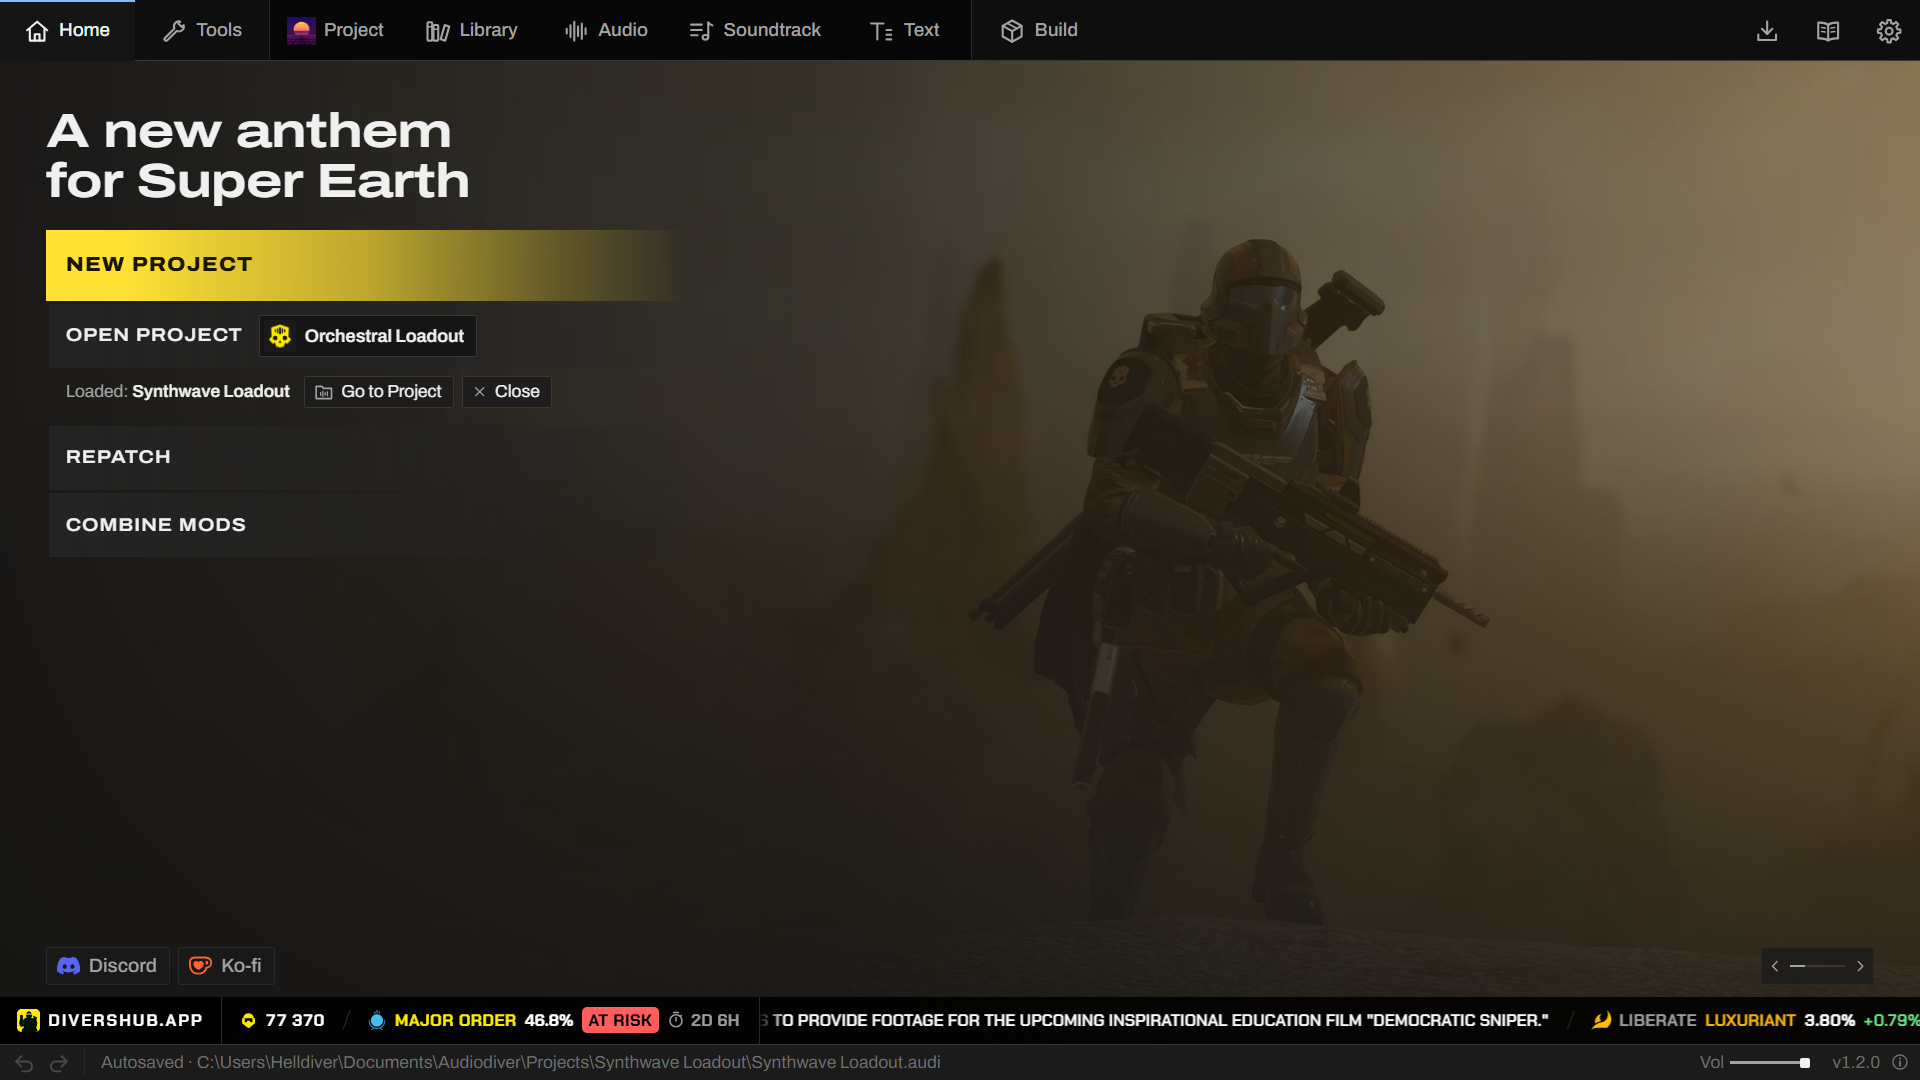
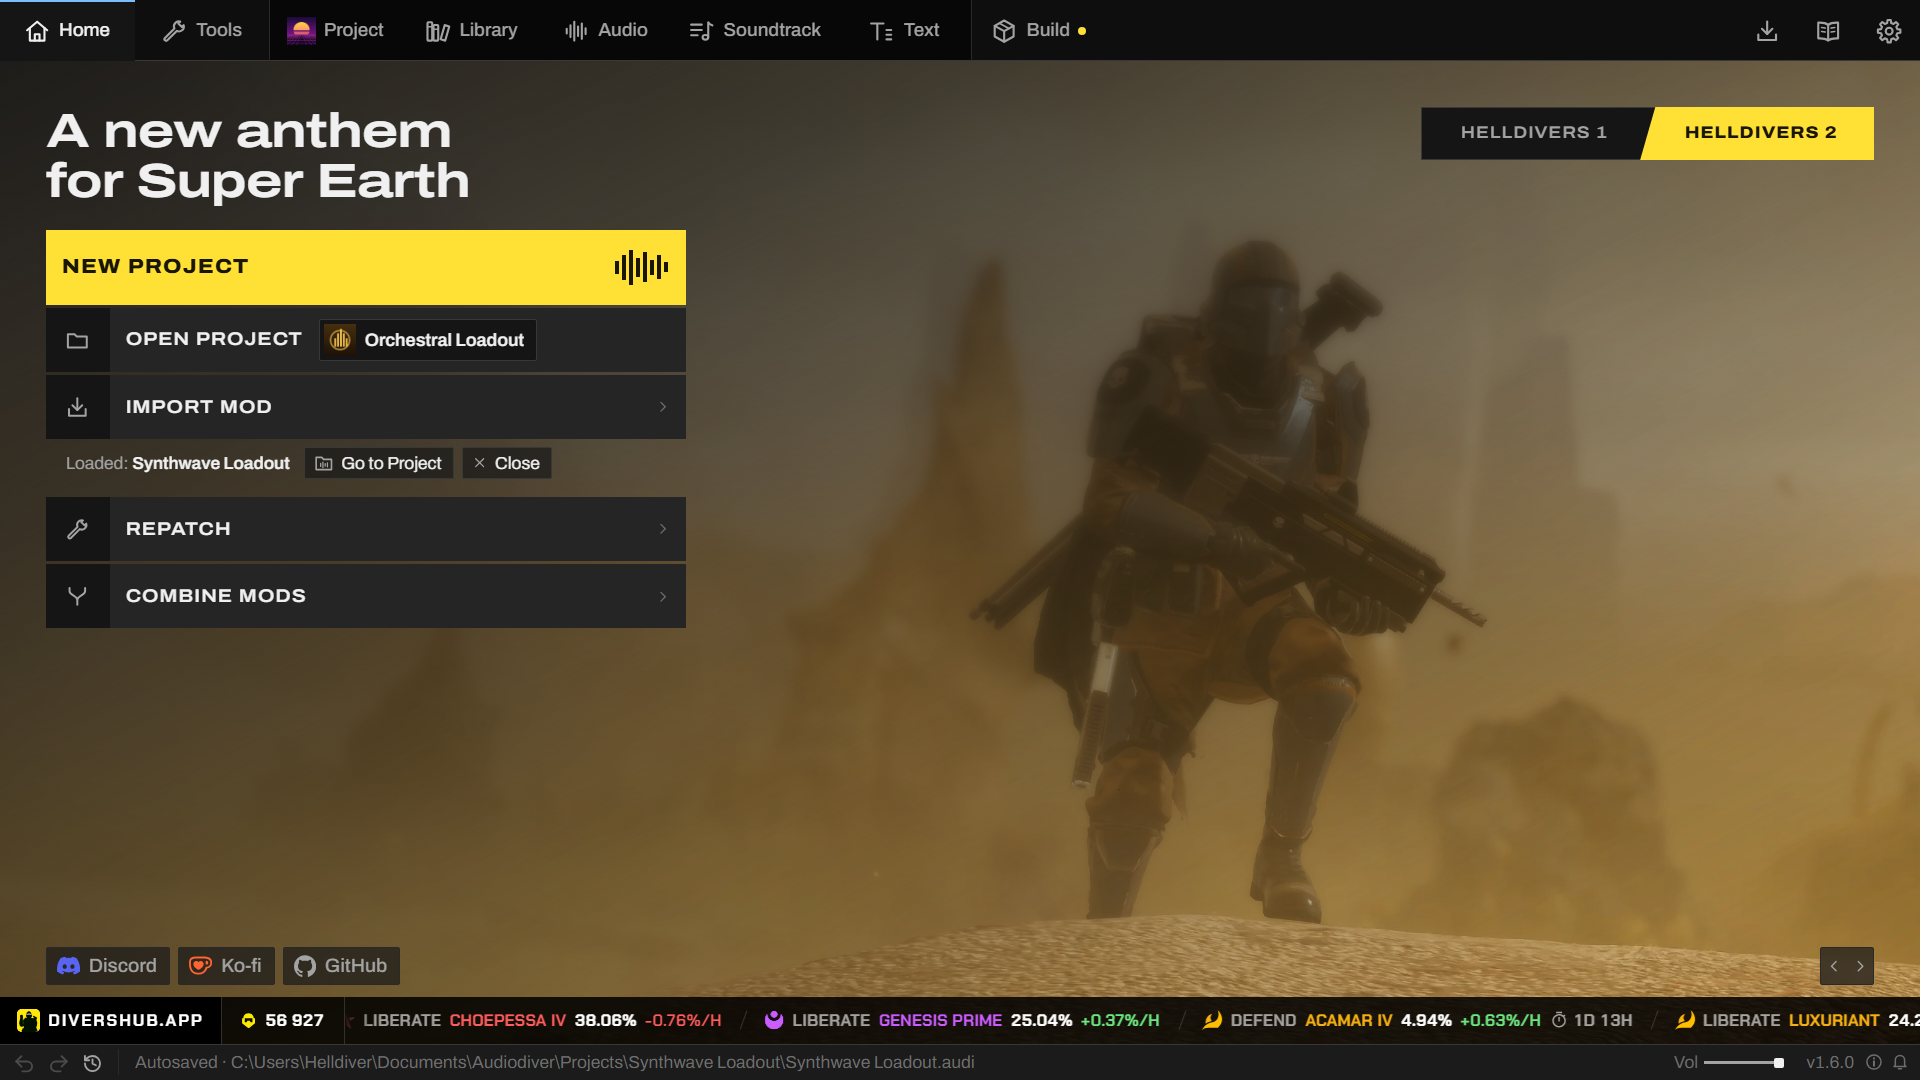
README: new screenshots for 1.6.0, and Home in Helldivers 1 mode

diff --git a/README.md b/README.md
@@ -26,7 +26,11 @@
 <br>
 
 <p align="center">
-  <img src="assets/readme/home.png" alt="Audiodiver's Home tab over a screenshot of a Helldiver kneeling in a desert sandstorm: New Project, Open Project and Import Mod, the loaded project with Go to Project and Close, then Repatch and Combine Mods, with Discord and Ko-fi in the corner" width="100%">
+  <img src="assets/readme/home.png" alt="Audiodiver's Home tab for Helldivers 2 over a screenshot of a Helldiver kneeling in a desert sandstorm: New Project, Open Project and Import Mod, the loaded project with Go to Project and Close, then Repatch and Combine Mods, the switch between Helldivers 1 and Helldivers 2 in the top right, and Discord, Ko-fi and GitHub in the corner" width="100%">
+</p>
+
+<p align="center">
+  <img src="assets/readme/home-hd1.png" alt="The same Home tab switched to Helldivers 1, over artwork of Helldivers fighting bugs: New Project and Open Project, the loaded Helldivers 1 project, and fewer tabs: Project, Library, Audio and Build" width="100%">
 </p>
 
 <p align="center">
@@ -52,7 +56,7 @@ The mod's name, description, icon and ID, with a preview as a mod manager shows 
 
 Every sound in Helldivers 2, sorted. Music goes by when it plays, from the ship to extraction, and weapons by loadout slot, then stratagems, enemies and planets. Search takes a name, a label or an ID.
 
-<img src="assets/readme/library.png" alt="The Library's Index with On the Ship, Bridge and War Map open: two parts, each segment with a row for each track under the segment name, a note on the transitions and stingers that play next to them, and the details panel with the Global Note" width="100%">
+<img src="assets/readme/library.png" alt="The Library's Index on Helldivers 2, with On the Ship, Bridge and War Map open: two parts, each segment with a row for each track under the segment name, a note on the transitions and stingers that play next to them, and the details panel with the Global Note" width="100%">
 
 ### 🎚 Audio
 
